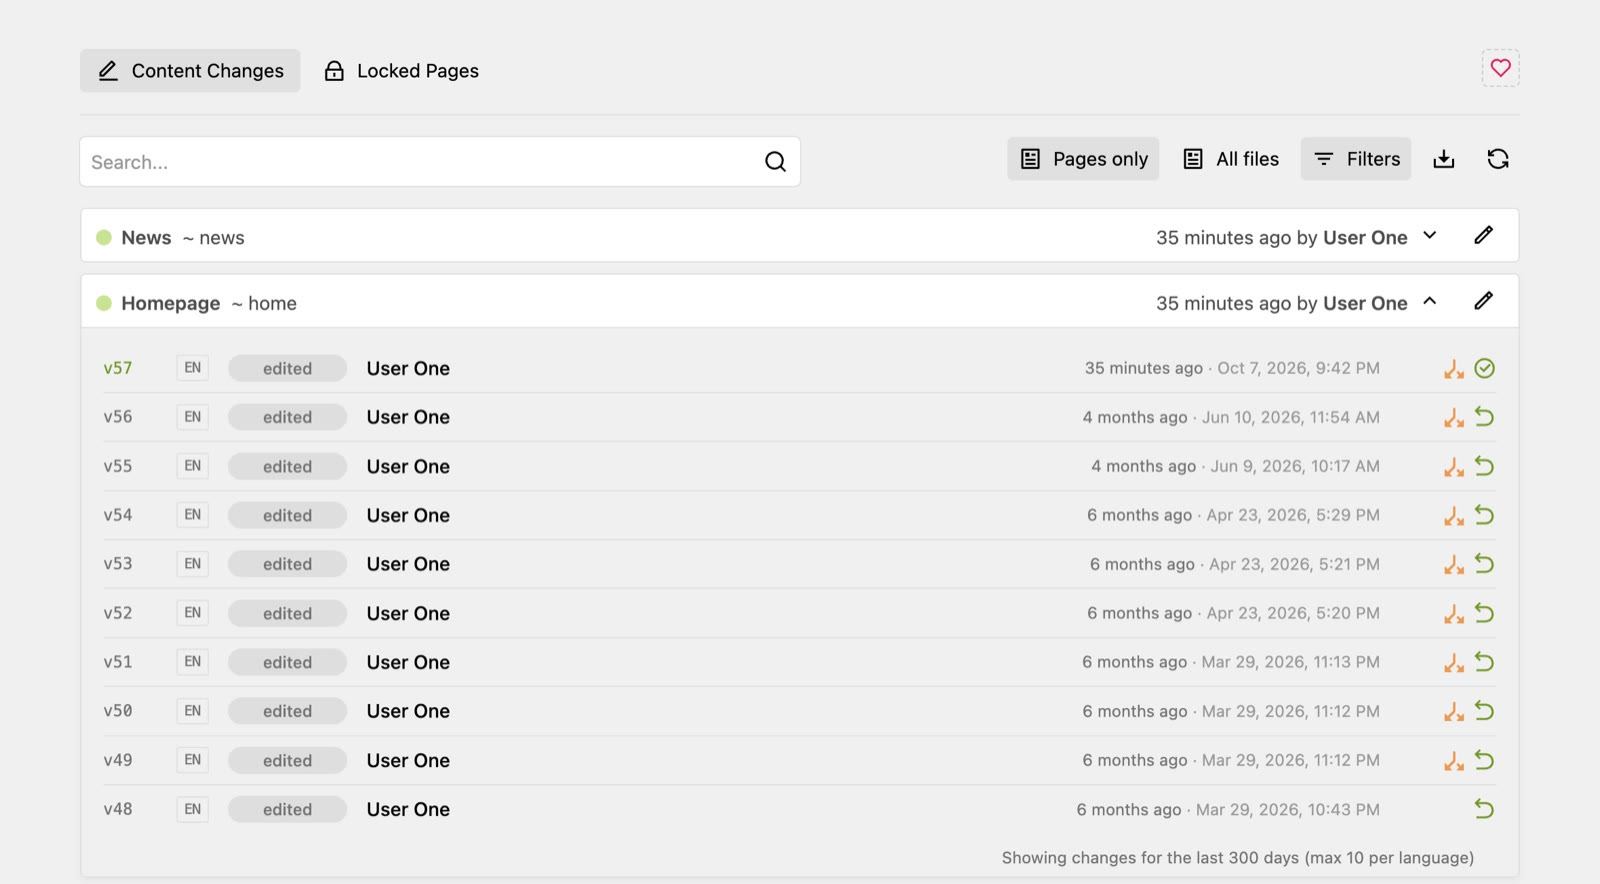
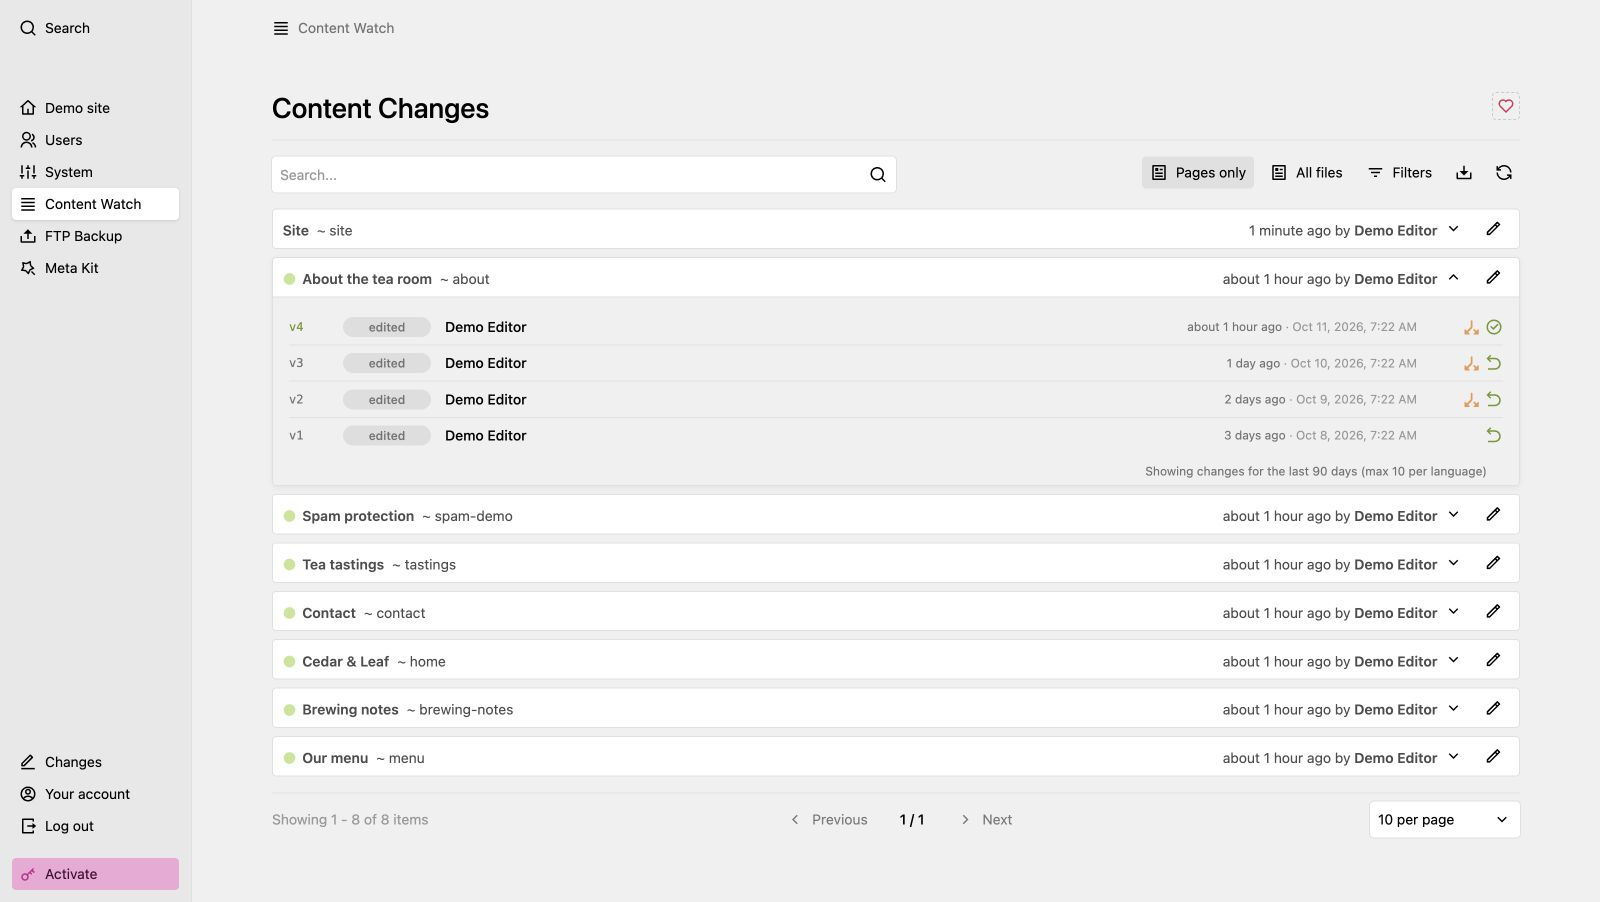
docs: refresh plugin screenshots in light and dark themes

diff --git a/README.md b/README.md
@@ -259,3 +259,12 @@ This plugin is licensed under the [MIT License](LICENSE)
 - Assisted by Claude (Anthropic)
 
 [!["Buy Me A Coffee"](https://www.buymeacoffee.com/assets/img/custom_images/orange_img.png)](https://coff.ee/tearoom1)
+
+## Screenshots
+
+Screenshots use fictional Cedar & Leaf sample content at 1600 × 902 pixels. The main image uses the light theme.
+
+| View | Light | Dark |
+| --- | --- | --- |
+| Overview | [Light](screenshot.jpg) | [Dark](screenshot-dark.jpg) |
+| Page history section | [Light](screenshot-section.jpg) | [Dark](screenshot-section-dark.jpg) |
